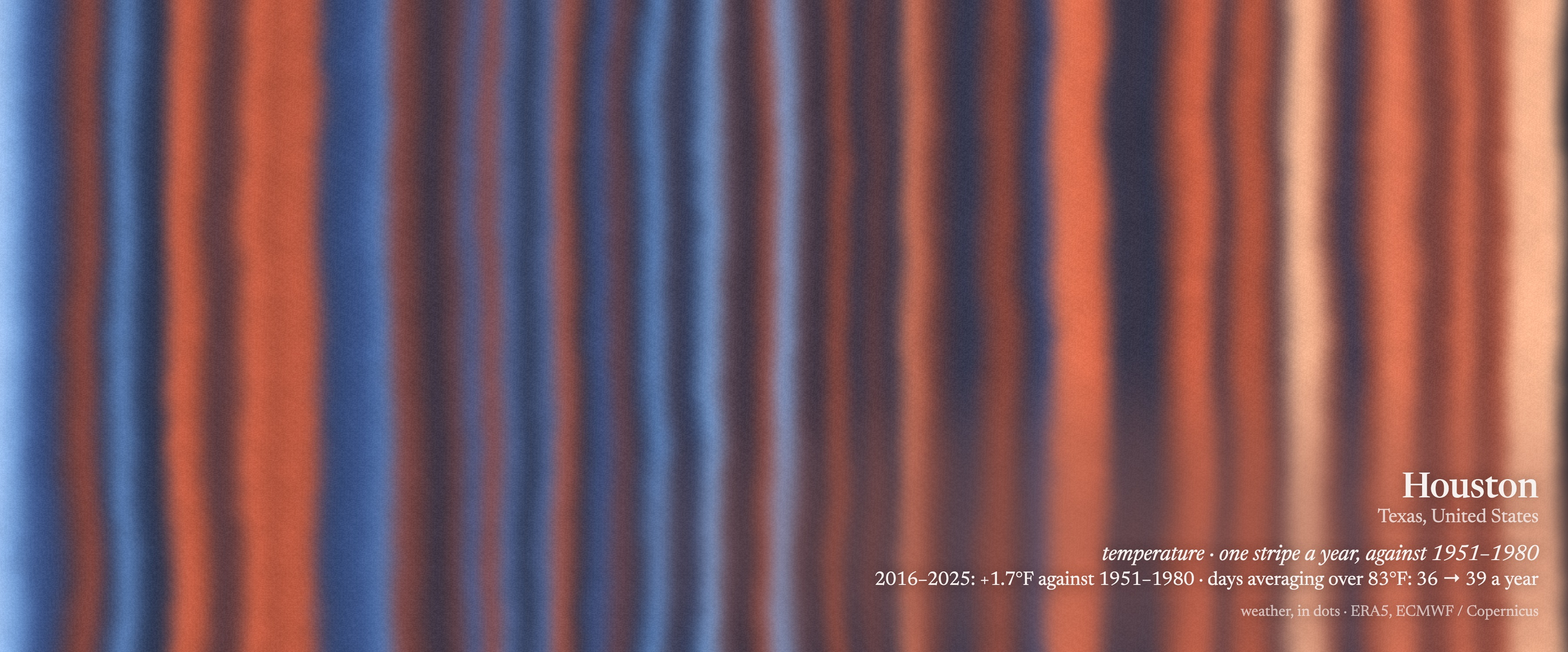
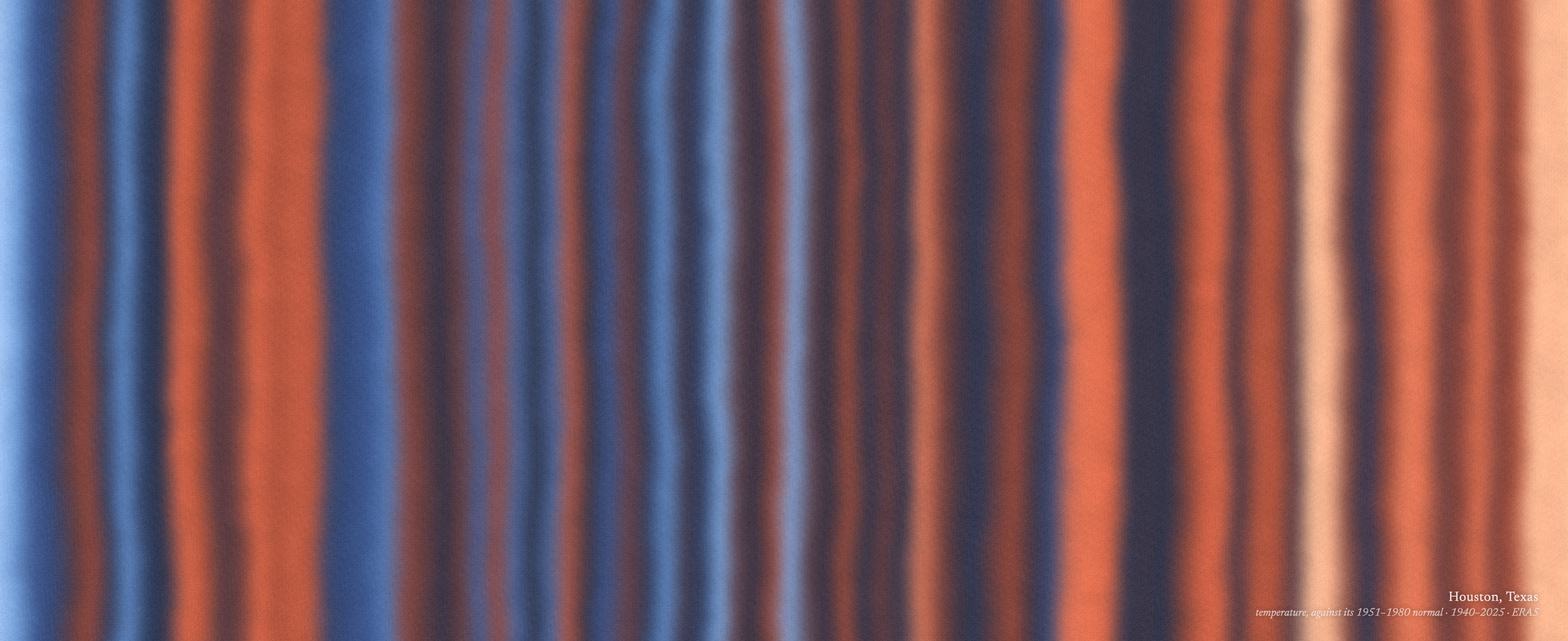
Save image: a print's signature, not a caption
Two small lines (place; measure, years, source) at about 0.85% of the long
edge, no backing patch, a faint shadow only on the picture. Very wide or
tall views go on a paper mat with the signature under the corner. The
stripes leave off a year that isn't finished.

diff --git a/app.js b/app.js
@@ -337,7 +337,12 @@ function dailyGrid(json, m, scale) {
     describe: (x, y) => `${MONTHS[x]} ${Y0 + y}`,
     caption: `each dot is one month (${kind}) · ${span}`,
   };
-  // years: warming stripes, one column per year, repeated down the page
+  // years: warming stripes, one column per year, repeated down the page; a year still under way is left off
+  let ny2 = ny; while (ny2 > 1 && !(vals[ny2 - 1] === vals[ny2 - 1])) ny2--;
+  if (ny2 < ny) return dailyStripes(vals, ny2, Y0, json, m, kind, `${Y0} to ${Y0 + ny2 - 1}`);
+  return dailyStripes(vals, ny, Y0, json, m, kind, span);
+}
+function dailyStripes(vals, ny, Y0, json, m, kind, span) {
   const rows = Math.max(8, Math.round(ny * 0.42)), stripes = new Float32Array(ny * rows);
   for (let r = 0; r < rows; r++) for (let y = 0; y < ny; y++) stripes[r * ny + y] = vals[y];
   return {
@@ -909,41 +914,48 @@ function inkFor(o, x, y, w, h) {
   return { c, shade, avg };
 }
 
-function caption(o) {
-  const w = o.canvas.width, h = o.canvas.height, m = metric();
-  let f = Math.max(14, Math.min(w, h) * 0.034, Math.max(w, h) * 0.011);
-  const p = state.place, lines = [];
-  lines.push({ t: p.name, size: 1.55, weight: 500 });
-  const where = [p.admin, p.country].filter(Boolean).join(', ');
-  if (where) lines.push({ t: where, size: 0.85, alpha: 0.8 });
-  lines.push({ t: $('#gist').textContent || m.name, size: 0.95, italic: true, gap: 0.45 });
-  const st = $('#story').textContent;
-  if (st) lines.push({ t: st, size: 0.85 });
-  lines.push({ t: 'weather, in dots · ERA5, ECMWF / Copernicus', size: 0.68, alpha: 0.7, gap: 0.5 });
-  const font = (l, F) => `${l.italic ? 'italic ' : ''}${l.weight || 400} ${l.size * F}px Newsreader, Georgia, serif`;
-  // shrink until the block fits comfortably
-  const widest = F => Math.max(...lines.map(l => { o.font = font(l, F); return o.measureText(l.t).width; }));
-  while (f > 10 && widest(f) > w * 0.78) f *= 0.92;
-  const pad = Math.max(16, Math.min(w, h) * 0.045);
-  const heights = lines.map(l => l.size * f * 1.32 + (l.gap || 0) * f), total = heights.reduce((a, b) => a + b, 0), bw = widest(f);
-  const right = w - pad, top = h - pad - total;
-  const ink = inkFor(o, right - bw, top, bw, total);
-  // a soft wash of the picture's own colour behind the type, so busy stripes don't fight it
-  // an ellipse that fades to nothing, so there is no edge anywhere
-  o.save();
-  o.translate(right - bw / 2, top + total / 2); o.scale(bw * 0.95, total * 1.15);
-  const g = o.createRadialGradient(0, 0, 0, 0, 0, 1);
-  g.addColorStop(0, ink.avg + '0.5)'); g.addColorStop(0.55, ink.avg + '0.3)'); g.addColorStop(1, ink.avg + '0)');
-  o.fillStyle = g; o.beginPath(); o.arc(0, 0, 1, 0, TAU); o.fill();
-  o.restore();
+// Very wide or very tall views go on a paper mat, like a matted print, so the picture keeps a
+// sensible shape and the signature has somewhere quiet to sit.
+function matted(art) {
+  const w = art.width, h = art.height, r = w / h, MAX = 3;
+  if (r <= MAX && r >= 1 / MAX) return { out: art, pad: null };
+  const m = Math.round(Math.max(w, h) * 0.06);
+  const W2 = r > MAX ? w + 2 * m : Math.max(w + 2 * m, Math.round((h + 2 * m) / MAX));
+  const H2 = r > MAX ? Math.max(h + 2 * m, Math.round((w + 2 * m) / MAX)) : h + 2 * m;
+  const out = document.createElement('canvas'); out.width = W2; out.height = H2;
+  const o = out.getContext('2d');
+  o.fillStyle = mode() === 'dark' ? '#171c28' : '#f4f1ea'; o.fillRect(0, 0, W2, H2);
+  const x = Math.round((W2 - w) / 2), y = Math.round((H2 - h) / 2.25);   // a little above centre, as mats are cut
+  o.drawImage(art, x, y);
+  return { out, pad: { x, y, w, h } };
+}
+
+// The signature: two small lines in the corner, the way a print is signed. Tinted from what's beneath.
+function caption(o, onMat) {
+  const w = o.canvas.width, h = o.canvas.height, m = metric(), p = state.place;
+  const f = Math.max(11, Math.min(Math.max(w, h) * 0.0085, Math.min(w, h) * 0.05));
+  const span = ((grid.caption.split(' · ')[1] || '').match(/\d{4}/g) || []);
+  const years = span.length ? (span[0] === span[span.length - 1] ? span[0] : `${span[0]}–${span[span.length - 1]}`) : '';
+  const l1 = [p.name, p.admin || p.country].filter(Boolean).join(', ');
+  const l2 = [m.name + (changing() ? `, against its ${BASE[0]}–${BASE[1]} normal` : ''), years, 'ERA5'].filter(Boolean).join(' · ');
+  const F1 = `400 ${f}px Newsreader, Georgia, serif`, F2 = `italic 400 ${f * 0.82}px Newsreader, Georgia, serif`;
+  o.font = F1; const w1 = o.measureText(l1).width; o.font = F2; const w2 = o.measureText(l2).width;
+  const bw = Math.max(w1, w2), lh = f * 1.35, total = lh + f * 0.82 * 1.35;
+  const pad = onMat ? { x: w - onMat.x - onMat.w, y: h - onMat.y - onMat.h } : null;
+  const right = w - (pad ? pad.x : Math.max(f * 2.2, Math.min(w, h) * 0.035));
+  // on a mat, sign just below the picture's corner; on the picture, inside its corner
+  const base = pad ? onMat.y + onMat.h + f * 1.9 : h - Math.max(f * 1.9, Math.min(w, h) * 0.035);
+  const top = pad ? base - f : base - total;
+  const ink = inkFor(o, right - bw, Math.max(0, top - f * 0.2), bw, Math.min(h - top, total + f * 0.4));
   o.textAlign = 'right'; o.textBaseline = 'alphabetic';
-  o.shadowColor = ink.shade; o.shadowBlur = f * 0.6;
-  let y = top;
-  lines.forEach((l, i) => {
-    y += heights[i];
-    o.font = font(l, f); o.fillStyle = ink.c; o.globalAlpha = l.alpha || 1;
-    o.fillText(l.t, right, y - f * 0.3);
-  });
+  o.shadowColor = ink.shade; o.shadowBlur = pad ? 0 : f * 0.45;
+  o.fillStyle = ink.c;
+  o.globalAlpha = 0.9; o.font = F1;
+  if (o.letterSpacing !== undefined) o.letterSpacing = `${(f * 0.03).toFixed(2)}px`;
+  o.fillText(l1, right, pad ? base : base - f * 0.82 * 1.35);
+  o.globalAlpha = 0.68; o.font = F2;
+  if (o.letterSpacing !== undefined) o.letterSpacing = '0px';
+  o.fillText(l2, right, pad ? base + lh : base);
   o.globalAlpha = 1; o.shadowBlur = 0;
 }
 
@@ -968,8 +980,9 @@ async function openSave() {
   saveMeta.textContent = 'preparing…'; saveImg.removeAttribute('src'); saveGo.disabled = true;
   try { await Promise.all(['400 40px Newsreader', '500 40px Newsreader', 'italic 400 40px Newsreader'].map(f => document.fonts.load(f))); } catch { /* falls back to Georgia */ }
   await new Promise(r => requestAnimationFrame(r));
-  saveCanvas = renderView();
-  caption(saveCanvas.getContext('2d'));
+  const { out, pad } = matted(renderView());
+  saveCanvas = out;
+  caption(saveCanvas.getContext('2d'), pad);
   encode();
 }
 function fileName() {

diff --git a/index.html b/index.html
@@ -11,7 +11,7 @@
 <link rel="preconnect" href="https://fonts.gstatic.com" crossorigin>
 <link href="https://fonts.googleapis.com/css2?family=Newsreader:ital,opsz,wght@0,6..72,300..600;1,6..72,300..600&display=swap" rel="stylesheet">
 <link rel="stylesheet" href="https://cdnjs.cloudflare.com/ajax/libs/leaflet/1.9.4/leaflet.min.css">
-<link rel="stylesheet" href="style.css?v=2.3.0">
+<link rel="stylesheet" href="style.css?v=2.3.1">
 </head>
 <body>
 <div id="planet" aria-label="The whole planet, 1850 to last year, coloured by how far each year sat from the 20th-century average"><canvas></canvas><span></span></div>
@@ -97,7 +97,7 @@
         <h3>how to read it</h3>
         <p>Each dot is one hour, day, week, month or year. Colours stretch across each place&rsquo;s own range, so a deep orange in Fairbanks is not the same heat as one in Houston. Hover or tap a dot for its number.</p>
         <p><i>Change</i> colours each cell by how far it sat from the same time of year in 1951–1980, the baseline NASA uses for its global temperature record. Blue and ochre are below normal; red and teal above. The years view draws them as warming stripes, after the climate scientist Ed Hawkins.</p>
-        <p><i>Field</i> lets neighbouring cells bleed into one another, like pigment, so slow patterns show through the day-to-day noise. Switch to <i>dots</i> for the exact values. <i>Save image</i> (or the S key) draws what you see again at print size, with the place and the numbers in the corner, and shows you a preview before it downloads. <i>Quiet</i> (the switch in the corner, or the Q key) puts the controls away so the picture fills the page; click the place name to bring them back.</p>
+        <p><i>Field</i> lets neighbouring cells bleed into one another, like pigment, so slow patterns show through the day-to-day noise. Switch to <i>dots</i> for the exact values. <i>Save image</i> (or the S key) draws what you see again at print size, signed small in the corner like a print, and shows you a preview before it downloads. <i>Quiet</i> (the switch in the corner, or the Q key) puts the controls away so the picture fills the page; click the place name to bring them back.</p>
         <p>The hairline across the top is the whole planet, every year since 1850, from NOAA&rsquo;s <a href="https://www.ncei.noaa.gov/access/monitoring/climate-at-a-glance/global/time-series" target="_blank" rel="noopener">National Centers for Environmental Information</a>.</p>
         <p>The radar view shows only rain, whatever measure you pick, and only where countries share their radar: most of North America, Europe, Japan and Australia, and parts of elsewhere.</p>
         <p>A reanalysis describes a patch of sky about 25&nbsp;km across, so a dot is the weather of a neighbourhood, not of one thermometer. The newest five days are still being checked and are left out.</p>
@@ -112,9 +112,9 @@
   </div>
 </dialog>
 <script src="https://cdnjs.cloudflare.com/ajax/libs/leaflet/1.9.4/leaflet.min.js"></script>
-<script src="radar.js?v=2.3.0"></script>
-<script src="field.js?v=2.3.0"></script>
-<script src="planet.js?v=2.3.0"></script>
-<script src="app.js?v=2.3.0"></script>
+<script src="radar.js?v=2.3.1"></script>
+<script src="field.js?v=2.3.1"></script>
+<script src="planet.js?v=2.3.1"></script>
+<script src="app.js?v=2.3.1"></script>
 </body>
 </html>

diff --git a/README.md b/README.md
@@ -13,7 +13,7 @@ Search for a place and pick one of twelve measures. Every hour of the past year,
 - **field / dots.** *Field* lets neighbouring cells bleed into each other like pigment, so slow patterns show through the week-to-week noise. It drifts very slowly and has a fine print grain. *Dots* shows every value exactly, as hand-drawn dots.
 - **the planet.** The hairline across the top of the page is the whole Earth, every year since 1850, from NOAA. Hover over it to read a year.
 - **quiet.** On by default. The controls step away and the picture fills the page, with only the place, one line about what you're seeing, and the summary left. You can still hover to read any value. The switch in the top-right corner says whether it's on; it (or the Q key) turns it off, and so does clicking the place name, which also opens search.
-- **save image.** The button at the top (or the S key) draws whatever you're looking at again, at about 3,600 px across, and sets the place and the numbers in the corner in a tint of the colours underneath. You get a preview with the file type (JPEG or PNG), pixel size and file size before anything downloads.
+- **save image.** The button at the top (or the S key) draws whatever you're looking at again, at about 3,600 px across, and signs it small in the corner, the way a print is signed: the place, then one italic line with the measure, the years and the source, in a tint of the colours underneath. Very wide or very tall views are set on a paper mat, like a matted print. You get a preview with the file type (JPEG or PNG), pixel size and file size before anything downloads.
 - **radar.** The last two hours of rain, drawn as dots on a quiet, labelled map.
 
 | Houston, one stripe per year, against 1951–1980 | |
@@ -22,7 +22,7 @@ Search for a place and pick one of twelve measures. Every hour of the past year,
 
 A saved image:
 
-![A saved image: Houston's warming stripes with the place and the summary set in the corner](media/saved-houston-stripes.jpg)
+![A saved image: Houston's warming stripes, signed small in the corner](media/saved-houston-stripes.jpg)
 
 ## Why
 
